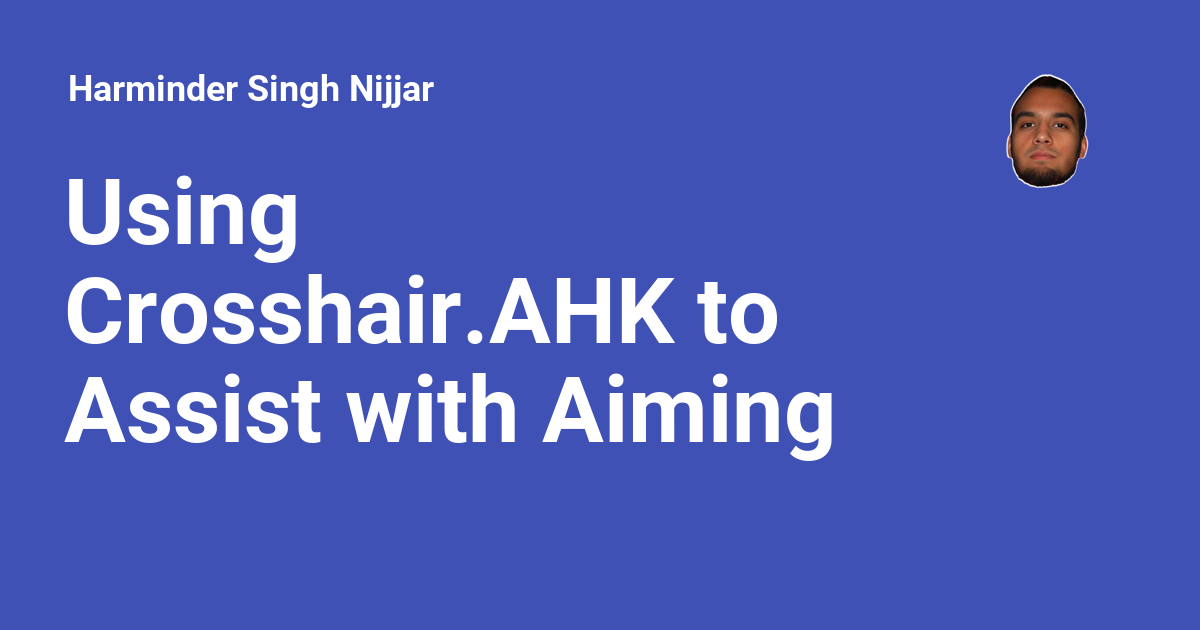
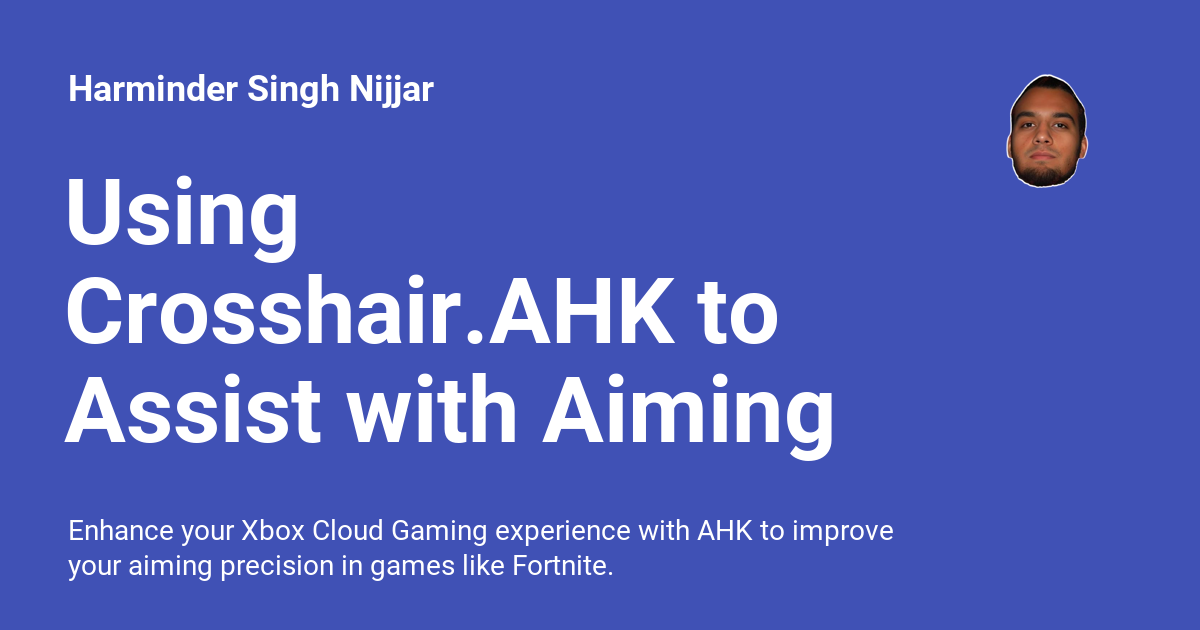
Deployed d6354bc with MkDocs version: 1.6.1

Changed region(s): [[0.0617, 0.8143, 0.74, 0.9349]]

diff --git a/blog/2024/11/25/harminder-singh-nijjars-first-digital-art-blog-post/index.html b/blog/2024/11/25/harminder-singh-nijjars-first-digital-art-blog-post/index.html
@@ -5,7 +5,7 @@
 <head>
 <meta charset="utf-8"/>
 <meta content="width=device-width,initial-scale=1" name="viewport"/>
-<meta content="While sitting on the dining table drinking a Celsius Peach Vibe, I decided to create a quick digital drawing of the can next to a container of JIF peanut butter. The drawing was done on my MobiScribe WAVE using the stylus that came with the device. The MobiScribe WAVE is a great tool for digital art, and I enjoy using it for quick sketches and drawings." name="description"/>
+<meta content="JIF Peanut Butter + Celsius Peach Vibe Drawing on MobiScribe Wave Black &amp; White" name="description"/>
 <meta content="harmindersinghnijjar" name="author"/>
 <link href="https://harminder.dev/blog/2024/11/25/harminder-singh-nijjars-first-digital-art-blog-post/" rel="canonical">
 <link href="../../24/my-first-blog-post/" rel="prev"/>
@@ -24,7 +24,7 @@
 <script>if("undefined"!=typeof __md_analytics){var consent=__md_get("__consent");consent&&consent.analytics&&__md_analytics()}</script>
 <meta content="website" property="og:type"/>
 <meta content="Harminder Singh Nijjar's First Digital Art Blog Post - Harminder Singh Nijjar" property="og:title"/>
-<meta content="None" property="og:description"/>
+<meta content="JIF Peanut Butter + Celsius Peach Vibe Drawing on MobiScribe Wave Black &amp; White" property="og:description"/>
 <meta content="https://i.imgur.com/knoIoDW.jpeg" property="og:image"/>
 <meta content="image/png" property="og:image:type"/>
 <meta content="1200" property="og:image:width"/>
@@ -32,9 +32,9 @@
 <meta content="https://harminder.dev/blog/2024/11/25/harminder-singh-nijjars-first-digital-art-blog-post/" property="og:url"/>
 <meta content="summary_large_image" name="twitter:card"/>
 <meta content="Harminder Singh Nijjar's First Digital Art Blog Post - Harminder Singh Nijjar" name="twitter:title"/>
-<meta content="None" name="twitter:description"/>
+<meta content="JIF Peanut Butter + Celsius Peach Vibe Drawing on MobiScribe Wave Black &amp; White" name="twitter:description"/>
 <meta content="https://harminder.dev/assets/images/social/blog/posts/20241125141256.png" name="twitter:image"/>
-<meta content="Harminder Singh Nijjar's First Digital Art Blog Post" name="title"/><link href="https://cdnjs.cloudflare.com/ajax/libs/font-awesome/6.4.2/css/all.min.css" rel="stylesheet"><meta content="website" property="og:type"/><meta content="https://harminder.dev/blog/2024/11/25/harminder-singh-nijjars-first-digital-art-blog-post" property="og:url"/><meta content="Harminder Singh Nijjar's First Digital Art Blog Post" property="og:title"/><meta content="While sitting on the dining table drinking a Celsius Peach Vibe, I decided to create a quick digital drawing of the can next to a container of JIF peanut butter. The drawing was done on my MobiScribe WAVE using the stylus that came with the device. The MobiScribe WAVE is a great tool for digital art, and I enjoy using it for quick sketches and drawings." property="og:description"/><meta content="summary_large_image" property="twitter:card"/><meta content="https://harminder.dev/blog/2024/11/25/harminder-singh-nijjars-first-digital-art-blog-post" property="twitter:url"/><meta content="Harminder Singh Nijjar's First Digital Art Blog Post" property="twitter:title"/><meta content="While sitting on the dining table drinking a Celsius Peach Vibe, I decided to create a quick digital drawing of the can next to a container of JIF peanut butter. The drawing was done on my MobiScribe WAVE using the stylus that came with the device. The MobiScribe WAVE is a great tool for digital art, and I enjoy using it for quick sketches and drawings." property="twitter:description"/><meta content="https://i.imgur.com/knoIoDW.jpeg" property="twitter:image"/><script type="application/ld+json">{"@context": "https://schema.org", "@type": "Article", "headline": "Harminder Singh Nijjar's First Digital Art Blog Post", "image": ["https://i.imgur.com/knoIoDW.jpeg"], "datePublished": "2024-11-25 14:20:58 -0800", "dateModified": "2024-11-25 14:59:33 -0800", "author": [{"@type": "Organization", "name": "Ultralytics", "url": "https://ultralytics.com/"}], "abstract": "While sitting on the dining table drinking a Celsius Peach Vibe, I decided to create a quick digital drawing of the can next to a container of JIF peanut butter. The drawing was done on my MobiScribe WAVE using the stylus that came with the device. The MobiScribe WAVE is a great tool for digital art, and I enjoy using it for quick sketches and drawings."}</script></head>
+<meta content="Harminder Singh Nijjar's First Digital Art Blog Post" name="title"/><link href="https://cdnjs.cloudflare.com/ajax/libs/font-awesome/6.4.2/css/all.min.css" rel="stylesheet"><meta content="website" property="og:type"/><meta content="https://harminder.dev/blog/2024/11/25/harminder-singh-nijjars-first-digital-art-blog-post" property="og:url"/><meta content="Harminder Singh Nijjar's First Digital Art Blog Post" property="og:title"/><meta content="JIF Peanut Butter + Celsius Peach Vibe Drawing on MobiScribe Wave Black &amp; White" property="og:description"/><meta content="summary_large_image" property="twitter:card"/><meta content="https://harminder.dev/blog/2024/11/25/harminder-singh-nijjars-first-digital-art-blog-post" property="twitter:url"/><meta content="Harminder Singh Nijjar's First Digital Art Blog Post" property="twitter:title"/><meta content="JIF Peanut Butter + Celsius Peach Vibe Drawing on MobiScribe Wave Black &amp; White" property="twitter:description"/><meta content="https://i.imgur.com/knoIoDW.jpeg" property="twitter:image"/><script type="application/ld+json">{"@context": "https://schema.org", "@type": "Article", "headline": "Harminder Singh Nijjar's First Digital Art Blog Post", "image": ["https://i.imgur.com/knoIoDW.jpeg"], "datePublished": "2024-11-25 14:20:58 -0800", "dateModified": "2024-11-25 15:24:21 -0800", "author": [{"@type": "Organization", "name": "Ultralytics", "url": "https://ultralytics.com/"}], "abstract": "JIF Peanut Butter + Celsius Peach Vibe Drawing on MobiScribe Wave Black & White"}</script></head>
 <body data-md-color-accent="custom" data-md-color-primary="custom" data-md-color-scheme="slate" dir="ltr">
 <input autocomplete="off" class="md-toggle" data-md-toggle="drawer" id="__drawer" type="checkbox"/>
 <input autocomplete="off" class="md-toggle" data-md-toggle="search" id="__search" type="checkbox"/>
@@ -312,7 +312,7 @@
 </div>
 </fieldset>
 </form>
-<div class="git-info" style="font-size: 0.8em; text-align: right; margin-bottom: 10px;"><br/>Created 2024-11-25, Updated 2024-11-25<br/>Authors: <a href="https://github.com/harmindersinghnijjar">harmindersinghnijjar</a> (4)</div>
+<div class="git-info" style="font-size: 0.8em; text-align: right; margin-bottom: 10px;"><br/>Created 2024-11-25, Updated 2024-11-25<br/>Authors: <a href="https://github.com/harmindersinghnijjar">harmindersinghnijjar</a> (5)</div>
 <style>
                 .share-button:hover {
                     filter: brightness(1.2);

diff --git a/blog/2024/11/24/using-crosshairahk-to-assist-with-aiming-on-xbox-cloud-gaming/index.html b/blog/2024/11/24/using-crosshairahk-to-assist-with-aiming-on-xbox-cloud-gaming/index.html
@@ -5,6 +5,7 @@
 <head>
 <meta charset="utf-8"/>
 <meta content="width=device-width,initial-scale=1" name="viewport"/>
+<meta content="Enhance your Xbox Cloud Gaming experience with AHK to improve your aiming precision in games like Fortnite." name="description"/>
 <meta content="harmindersinghnijjar" name="author"/>
 <link href="https://harminder.dev/blog/2024/11/24/using-crosshairahk-to-assist-with-aiming-on-xbox-cloud-gaming/" rel="canonical">
 <link href="../my-first-blog-post/" rel="next"/>
@@ -23,7 +24,7 @@
 <script>if("undefined"!=typeof __md_analytics){var consent=__md_get("__consent");consent&&consent.analytics&&__md_analytics()}</script>
 <meta content="website" property="og:type"/>
 <meta content="Using Crosshair.AHK to Assist with Aiming on Xbox Cloud Gaming - Harminder Singh Nijjar" property="og:title"/>
-<meta content="None" property="og:description"/>
+<meta content="Enhance your Xbox Cloud Gaming experience with AHK to improve your aiming precision in games like Fortnite." property="og:description"/>
 <meta content="https://imgur.com/hSxHXl4.png" property="og:image"/>
 <meta content="image/png" property="og:image:type"/>
 <meta content="1200" property="og:image:width"/>
@@ -31,9 +32,9 @@
 <meta content="https://harminder.dev/blog/2024/11/24/using-crosshairahk-to-assist-with-aiming-on-xbox-cloud-gaming/" property="og:url"/>
 <meta content="summary_large_image" name="twitter:card"/>
 <meta content="Using Crosshair.AHK to Assist with Aiming on Xbox Cloud Gaming - Harminder Singh Nijjar" name="twitter:title"/>
-<meta content="None" name="twitter:description"/>
+<meta content="Enhance your Xbox Cloud Gaming experience with AHK to improve your aiming precision in games like Fortnite." name="twitter:description"/>
 <meta content="https://harminder.dev/assets/images/social/blog/posts/20241124153952.png" name="twitter:image"/>
-<meta content="Using Crosshair.AHK to Assist with Aiming on Xbox Cloud Gaming" name="title"/><link href="https://cdnjs.cloudflare.com/ajax/libs/font-awesome/6.4.2/css/all.min.css" rel="stylesheet"><meta content="website" property="og:type"/><meta content="https://harminder.dev/blog/2024/11/24/using-crosshairahk-to-assist-with-aiming-on-xbox-cloud-gaming" property="og:url"/><meta content="Using Crosshair.AHK to Assist with Aiming on Xbox Cloud Gaming" property="og:title"/><meta content="" property="og:description"/><meta content="summary_large_image" property="twitter:card"/><meta content="https://harminder.dev/blog/2024/11/24/using-crosshairahk-to-assist-with-aiming-on-xbox-cloud-gaming" property="twitter:url"/><meta content="Using Crosshair.AHK to Assist with Aiming on Xbox Cloud Gaming" property="twitter:title"/><meta content="" property="twitter:description"/><meta content="https://imgur.com/hSxHXl4.png" property="twitter:image"/><script type="application/ld+json">{"@context": "https://schema.org", "@type": "Article", "headline": "Using Crosshair.AHK to Assist with Aiming on Xbox Cloud Gaming", "image": ["https://imgur.com/hSxHXl4.png"], "datePublished": "2024-11-24 18:52:48 -0800", "dateModified": "2024-11-25 14:37:38 -0800", "author": [{"@type": "Organization", "name": "Ultralytics", "url": "https://ultralytics.com/"}], "abstract": ""}</script></head>
+<meta content="Using Crosshair.AHK to Assist with Aiming on Xbox Cloud Gaming" name="title"/><link href="https://cdnjs.cloudflare.com/ajax/libs/font-awesome/6.4.2/css/all.min.css" rel="stylesheet"><meta content="website" property="og:type"/><meta content="https://harminder.dev/blog/2024/11/24/using-crosshairahk-to-assist-with-aiming-on-xbox-cloud-gaming" property="og:url"/><meta content="Using Crosshair.AHK to Assist with Aiming on Xbox Cloud Gaming" property="og:title"/><meta content="Enhance your Xbox Cloud Gaming experience with AHK to improve your aiming precision in games like Fortnite." property="og:description"/><meta content="summary_large_image" property="twitter:card"/><meta content="https://harminder.dev/blog/2024/11/24/using-crosshairahk-to-assist-with-aiming-on-xbox-cloud-gaming" property="twitter:url"/><meta content="Using Crosshair.AHK to Assist with Aiming on Xbox Cloud Gaming" property="twitter:title"/><meta content="Enhance your Xbox Cloud Gaming experience with AHK to improve your aiming precision in games like Fortnite." property="twitter:description"/><meta content="https://imgur.com/hSxHXl4.png" property="twitter:image"/><script type="application/ld+json">{"@context": "https://schema.org", "@type": "Article", "headline": "Using Crosshair.AHK to Assist with Aiming on Xbox Cloud Gaming", "image": ["https://imgur.com/hSxHXl4.png"], "datePublished": "2024-11-24 18:52:48 -0800", "dateModified": "2024-11-25 15:24:21 -0800", "author": [{"@type": "Organization", "name": "Ultralytics", "url": "https://ultralytics.com/"}], "abstract": "Enhance your Xbox Cloud Gaming experience with AHK to improve your aiming precision in games like Fortnite."}</script></head>
 <body data-md-color-accent="custom" data-md-color-primary="custom" data-md-color-scheme="slate" dir="ltr">
 <input autocomplete="off" class="md-toggle" data-md-toggle="drawer" id="__drawer" type="checkbox"/>
 <input autocomplete="off" class="md-toggle" data-md-toggle="search" id="__search" type="checkbox"/>
@@ -378,7 +379,7 @@
 </div>
 </fieldset>
 </form>
-<div class="git-info" style="font-size: 0.8em; text-align: right; margin-bottom: 10px;"><br/>Created 2024-11-24, Updated 2024-11-25<br/>Authors: <a href="https://github.com/harmindersinghnijjar">harmindersinghnijjar</a> (4)</div>
+<div class="git-info" style="font-size: 0.8em; text-align: right; margin-bottom: 10px;"><br/>Created 2024-11-24, Updated 2024-11-25<br/>Authors: <a href="https://github.com/harmindersinghnijjar">harmindersinghnijjar</a> (5)</div>
 <style>
                 .share-button:hover {
                     filter: brightness(1.2);
